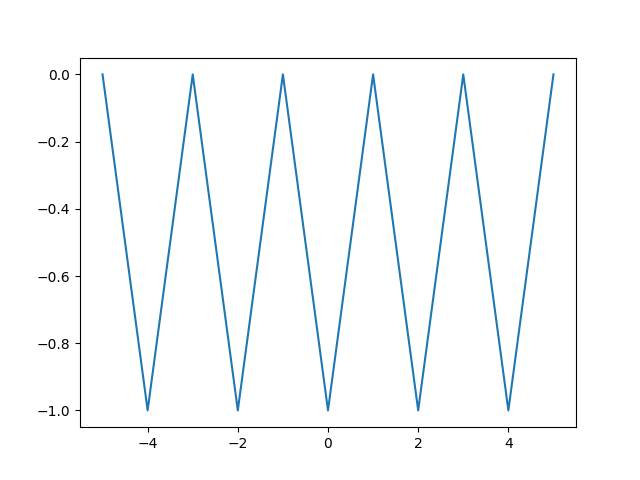
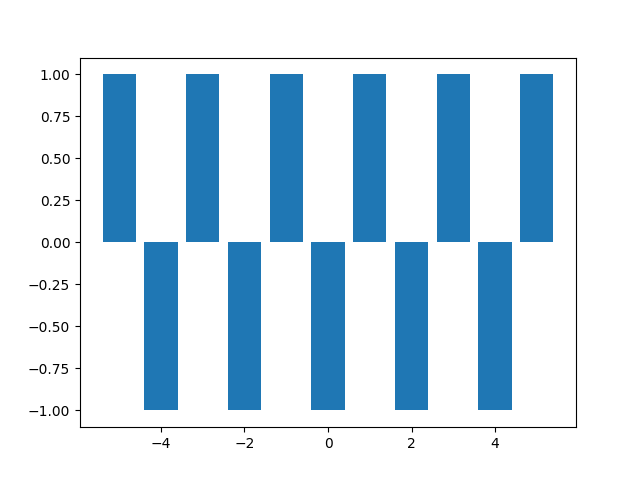
initial object hw

diff --git a/python-exercises-flex-3/dictionary.py b/python-exercises-flex-3/dictionary.py
@@ -1,0 +1,51 @@
+"""
+#EX1
+
+phonebook_dict = {
+  'Alice': '703-493-1834',
+  'Bob': '857-384-1234',
+  'Elizabeth': '484-584-2923'
+}
+
+print(phonebook_dict['Alice'])
+phonebook_dict['Kareem']='938-489-1234'
+del phonebook_dict['Alice']
+phonebook_dict['Bob']='968-345-2345'
+print(phonebook_dict)
+
+"""
+#EX2
+
+ramit = {
+  'name': 'Ramit',
+  'email': 'ramit@gmail.com',
+  'interests': ['movies', 'tennis'],
+  'friends': [
+    {
+      'name': 'Jasmine',
+      'email': 'jasmine@yahoo.com',
+      'interests': ['photography', 'tennis']
+    },
+    {
+      'name': 'Jan',
+      'email': 'jan@hotmail.com',
+      'interests': ['movies', 'tv']
+    }
+  ]
+}
+
+#print(ramit['email'])
+#print(ramit['interests'][1])
+print(ramit['friends'][1])
+
+#for value in ramit['friends']:
+#    print(value)
+
+{
+    "Jim": "789",
+    "Paul": "567"
+}
+
+{
+    "Jim": {"phone": "", "email": "", "web": }
+}

diff --git a/python-exercises-flex-3/objects.py b/python-exercises-flex-3/objects.py
@@ -1,0 +1,24 @@
+class Person:
+    def __init__(self, name, email, phone):
+        self.name = name
+        self.email = email
+        self.phone = phone
+
+    def greet(self, other_person):
+        print('Hello {}, I am {}!'.format(other_person.name, self.name))
+        
+#EX1 
+#1
+Sonny = Person("Sonny","sonny@hotmail.com","483-485-4948")
+#2
+Jordan = Person("Jordan", "jordan@aol.com","495-586-3456")
+#3
+Sonny.greet(Jordan)
+#4
+Jordan.greet(Sonny)
+#5
+print(Sonny.email)
+print(Sonny.phone)
+#6
+print(Jordan.email)
+print(Sonny.phone)

diff --git a/python-exercises-flex-3/function.py b/python-exercises-flex-3/function.py
@@ -51,7 +51,7 @@ def f(x):
     if x % 2 == 0:
         var =-1
     else:
-        var =0
+        var = 0
         
     print(x,var)
     return var
@@ -61,5 +61,5 @@ ys = []
 for x in xs:
     ys.append(f(x))
 
-pyplot.plot(xs, ys)
+pyplot.bar(xs, ys)
 pyplot.savefig('ex4.png')
